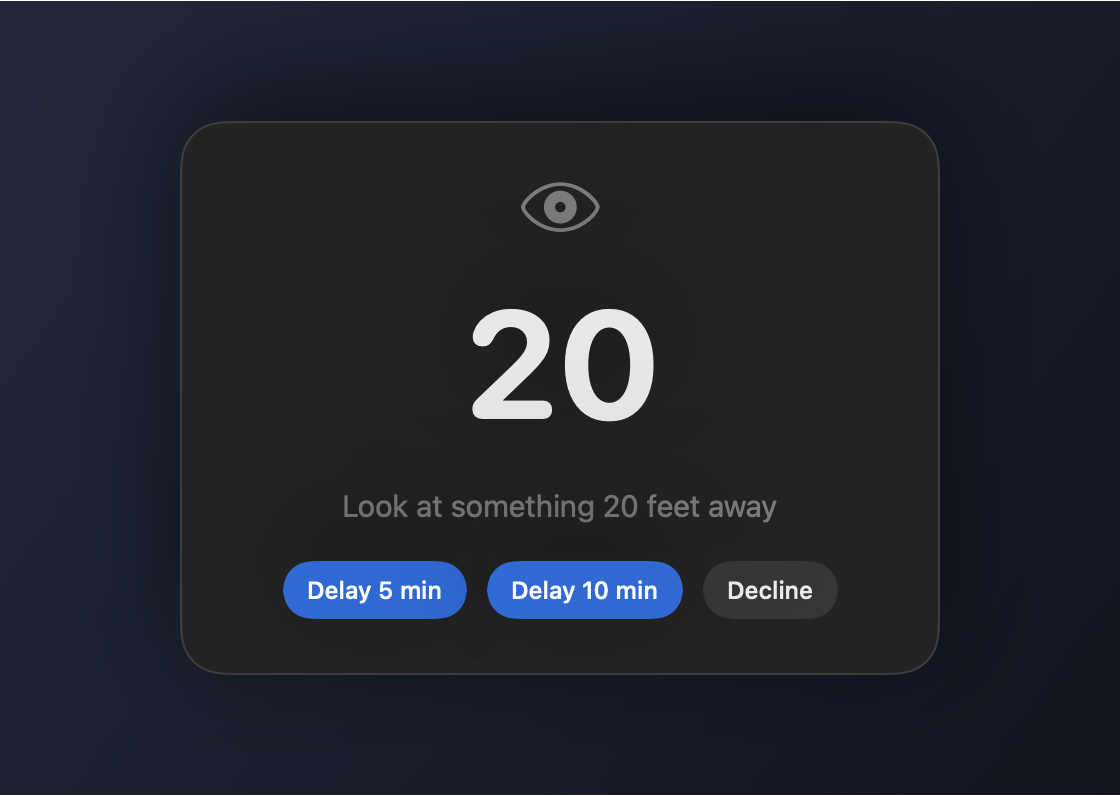
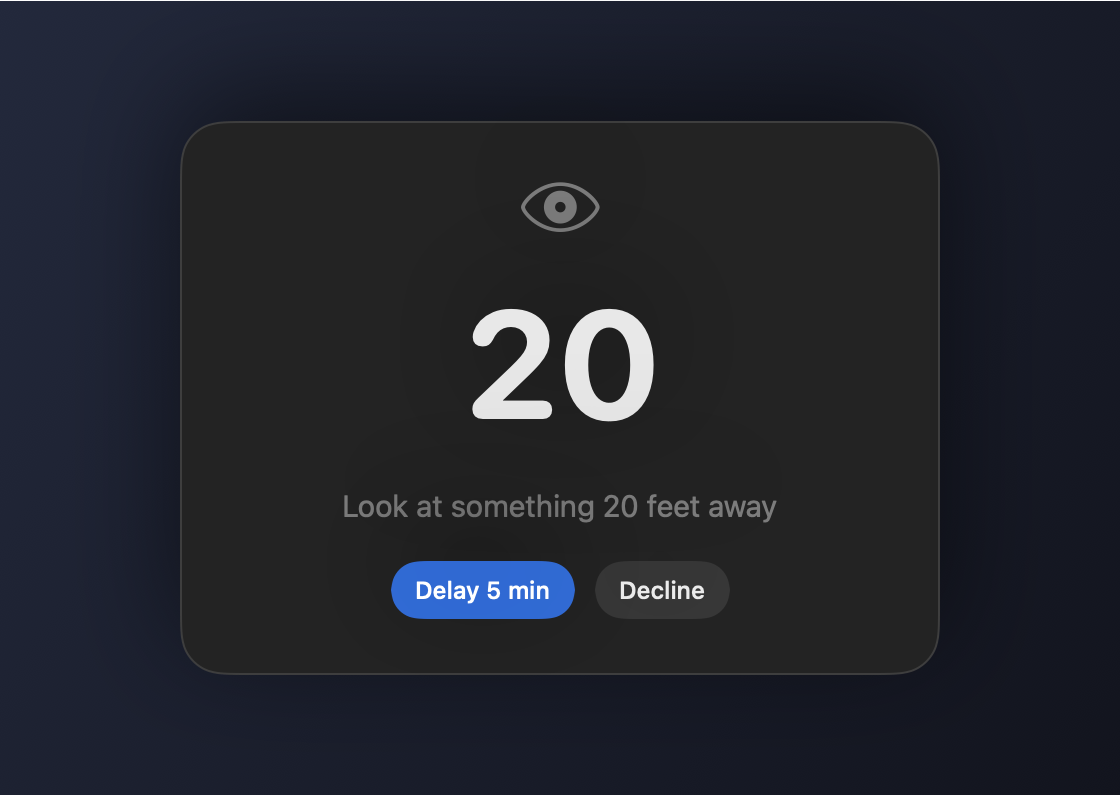
Remove the 10 minute delay option
Config now has a single snoozeInterval and the scheduler exposes snooze()
with no length parameter. The popup keeps Delay 5 min and Decline.

Changed region(s): [[0.25, 0.6935, 0.7188, 0.7839]]

diff --git a/Tests/LookAwayCoreTests/BreakSchedulerTests.swift b/Tests/LookAwayCoreTests/BreakSchedulerTests.swift
@@ -4,8 +4,8 @@ import Testing
 
 @MainActor
 struct BreakSchedulerTests {
-    // Short durations keep the arithmetic readable: 100s work, 5s break, 10s / 20s snooze.
-    let config = Config(workInterval: 100, breakSeconds: 5, shortSnooze: 10, longSnooze: 20)
+    // Short durations keep the arithmetic readable: 100s work, 5s break, 10s snooze.
+    let config = Config(workInterval: 100, breakSeconds: 5, snoozeInterval: 10)
     let clock = FakeTimekeeper()
     let scheduler: BreakScheduler
     let events: EventLog
@@ -101,12 +101,12 @@ struct BreakSchedulerTests {
 
     // MARK: Snooze
 
-    @Test func shortSnoozeReturnsWithFreshCountdown() {
+    @Test func snoozeReturnsWithFreshCountdown() {
         scheduler.start()
         clock.advance(by: 103) // 3s into the break, 2 remaining
         events.clear()
 
-        scheduler.snooze(.short)
+        scheduler.snooze()
         #expect(events.all == [.breakDismissed, .scheduleChanged])
         #expect(scheduler.state == .snoozed(until: date(113)))
 
@@ -117,19 +117,10 @@ struct BreakSchedulerTests {
         #expect(events.all.last == .breakStarted)
     }
 
-    @Test func longSnoozeUsesLongDuration() {
-        scheduler.start()
-        clock.advance(by: 100)
-        scheduler.snooze(.long)
-        #expect(scheduler.state == .snoozed(until: date(120)))
-        clock.advance(by: 20)
-        #expect(scheduler.state == .breaking(remaining: 5))
-    }
-
     @Test func snoozeDoesNotStartWorkInterval() {
         scheduler.start()
         clock.advance(by: 100)
-        scheduler.snooze(.short)
+        scheduler.snooze()
         clock.advance(by: 10) // popup back at 110
         clock.advance(by: 5)  // completes at 115
         // Work interval anchored to completion at 115, not to the snooze at 100.
@@ -139,19 +130,19 @@ struct BreakSchedulerTests {
     @Test func snoozesCanChain() {
         scheduler.start()
         clock.advance(by: 100)
-        scheduler.snooze(.short)
+        scheduler.snooze()
         clock.advance(by: 10)
         #expect(scheduler.state == .breaking(remaining: 5))
-        scheduler.snooze(.long)
-        #expect(scheduler.state == .snoozed(until: date(130)))
-        clock.advance(by: 20)
+        scheduler.snooze()
+        #expect(scheduler.state == .snoozed(until: date(120)))
+        clock.advance(by: 10)
         #expect(scheduler.state == .breaking(remaining: 5))
     }
 
     @Test func snoozeIsIgnoredOutsideABreak() {
         scheduler.start()
         events.clear()
-        scheduler.snooze(.short)
+        scheduler.snooze()
         #expect(events.all.isEmpty)
         #expect(clock.pendingCount == 1)
     }
@@ -181,7 +172,7 @@ struct BreakSchedulerTests {
     @Test func pauseWhileSnoozedCancelsReturn() {
         scheduler.start()
         clock.advance(by: 100)
-        scheduler.snooze(.short)
+        scheduler.snooze()
         scheduler.pause()
         clock.advance(by: 1000)
         #expect(scheduler.state == .paused(byUser: true))

diff --git a/Sources/LookAwayCore/Config.swift b/Sources/LookAwayCore/Config.swift
@@ -6,22 +6,19 @@ public struct Config: Sendable, Equatable {
     public var workInterval: TimeInterval
     /// Length of the look-away countdown, in whole seconds.
     public var breakSeconds: Int
-    /// Snooze lengths offered on the popup.
-    public var shortSnooze: TimeInterval
-    public var longSnooze: TimeInterval
+    /// How long "Delay" hides the popup before it returns.
+    public var snoozeInterval: TimeInterval
 
-    public init(workInterval: TimeInterval, breakSeconds: Int, shortSnooze: TimeInterval, longSnooze: TimeInterval) {
+    public init(workInterval: TimeInterval, breakSeconds: Int, snoozeInterval: TimeInterval) {
         self.workInterval = workInterval
         self.breakSeconds = breakSeconds
-        self.shortSnooze = shortSnooze
-        self.longSnooze = longSnooze
+        self.snoozeInterval = snoozeInterval
     }
 
-    /// The 20/20/20 rule with 5 and 10 minute snoozes.
+    /// The 20/20/20 rule with a 5 minute snooze.
     public static let standard = Config(
         workInterval: 20 * 60,
         breakSeconds: 20,
-        shortSnooze: 5 * 60,
-        longSnooze: 10 * 60
+        snoozeInterval: 5 * 60
     )
 }

diff --git a/Sources/LookAwayCore/BreakScheduler.swift b/Sources/LookAwayCore/BreakScheduler.swift
@@ -4,11 +4,6 @@ import Foundation
 /// and reads `state` for display.
 @MainActor
 public final class BreakScheduler {
-    public enum SnoozeLength: Sendable, Equatable {
-        case short
-        case long
-    }
-
     public enum State: Equatable, Sendable {
         /// `start()` has not been called.
         case stopped
@@ -67,12 +62,12 @@ public final class BreakScheduler {
         armWork()
     }
 
-    /// Hide the popup and bring it back after the snooze length.
-    public func snooze(_ length: SnoozeLength) {
+    /// Hide the popup and bring it back after the snooze interval.
+    public func snooze() {
         guard case .breaking = state else { return }
         cancelPending()
         emit(.breakDismissed)
-        let duration = length == .short ? config.shortSnooze : config.longSnooze
+        let duration = config.snoozeInterval
         state = .snoozed(until: clock.now().addingTimeInterval(duration))
         pending = clock.schedule(after: duration) { [weak self] in self?.beginBreak() }
         emit(.scheduleChanged)

diff --git a/Sources/LookAway/BreakView.swift b/Sources/LookAway/BreakView.swift
@@ -24,8 +24,7 @@ struct BreakView: View {
                 .foregroundStyle(.secondary)
 
             HStack(spacing: 10) {
-                Button("Delay 5 min") { model.snooze(.short) }
-                Button("Delay 10 min") { model.snooze(.long) }
+                Button("Delay 5 min") { model.snooze() }
                 Button("Decline") { model.decline() }
                     .buttonStyle(PanelButtonStyle(role: .quiet))
             }

diff --git a/Sources/LookAway/AppModel.swift b/Sources/LookAway/AppModel.swift
@@ -35,7 +35,7 @@ final class AppModel {
 
     // MARK: User actions
 
-    func snooze(_ length: BreakScheduler.SnoozeLength) { scheduler.snooze(length) }
+    func snooze() { scheduler.snooze() }
     func decline() { scheduler.decline() }
     func breakNow() { scheduler.breakNow() }
     func togglePause() { isPaused ? scheduler.resume() : scheduler.pause() }

diff --git a/README.md b/README.md
@@ -6,7 +6,7 @@ time, look at something 20 feet away for 20 seconds.
 <p align="center">
   <picture>
     <source media="(prefers-color-scheme: dark)" srcset="docs/popup-dark.png">
-    <img src="docs/popup-light.png" alt="Look Away break popup showing a 20-second countdown with Delay 5 min, Delay 10 min, and Decline buttons" width="560">
+    <img src="docs/popup-light.png" alt="Look Away break popup showing a 20-second countdown with Delay 5 min and Decline buttons" width="560">
   </picture>
 </p>
 
@@ -17,8 +17,8 @@ time, look at something 20 feet away for 20 seconds.
   above every other window, without taking keyboard focus from your current app.
 - The panel starts a 20-second countdown the moment it appears. At zero it
   shows "Done", plays a soft chime, and closes itself.
-- **Delay 5 min / Delay 10 min** hide the panel and bring it back later with a
-  fresh 20-second countdown. Snoozes can be chained.
+- **Delay 5 min** hides the panel and brings it back later with a fresh
+  20-second countdown. Delays can be chained.
 - **Decline** closes the panel immediately.
 - The next 20-minute interval starts when the panel closes (finished or
   declined), never from a snooze.
